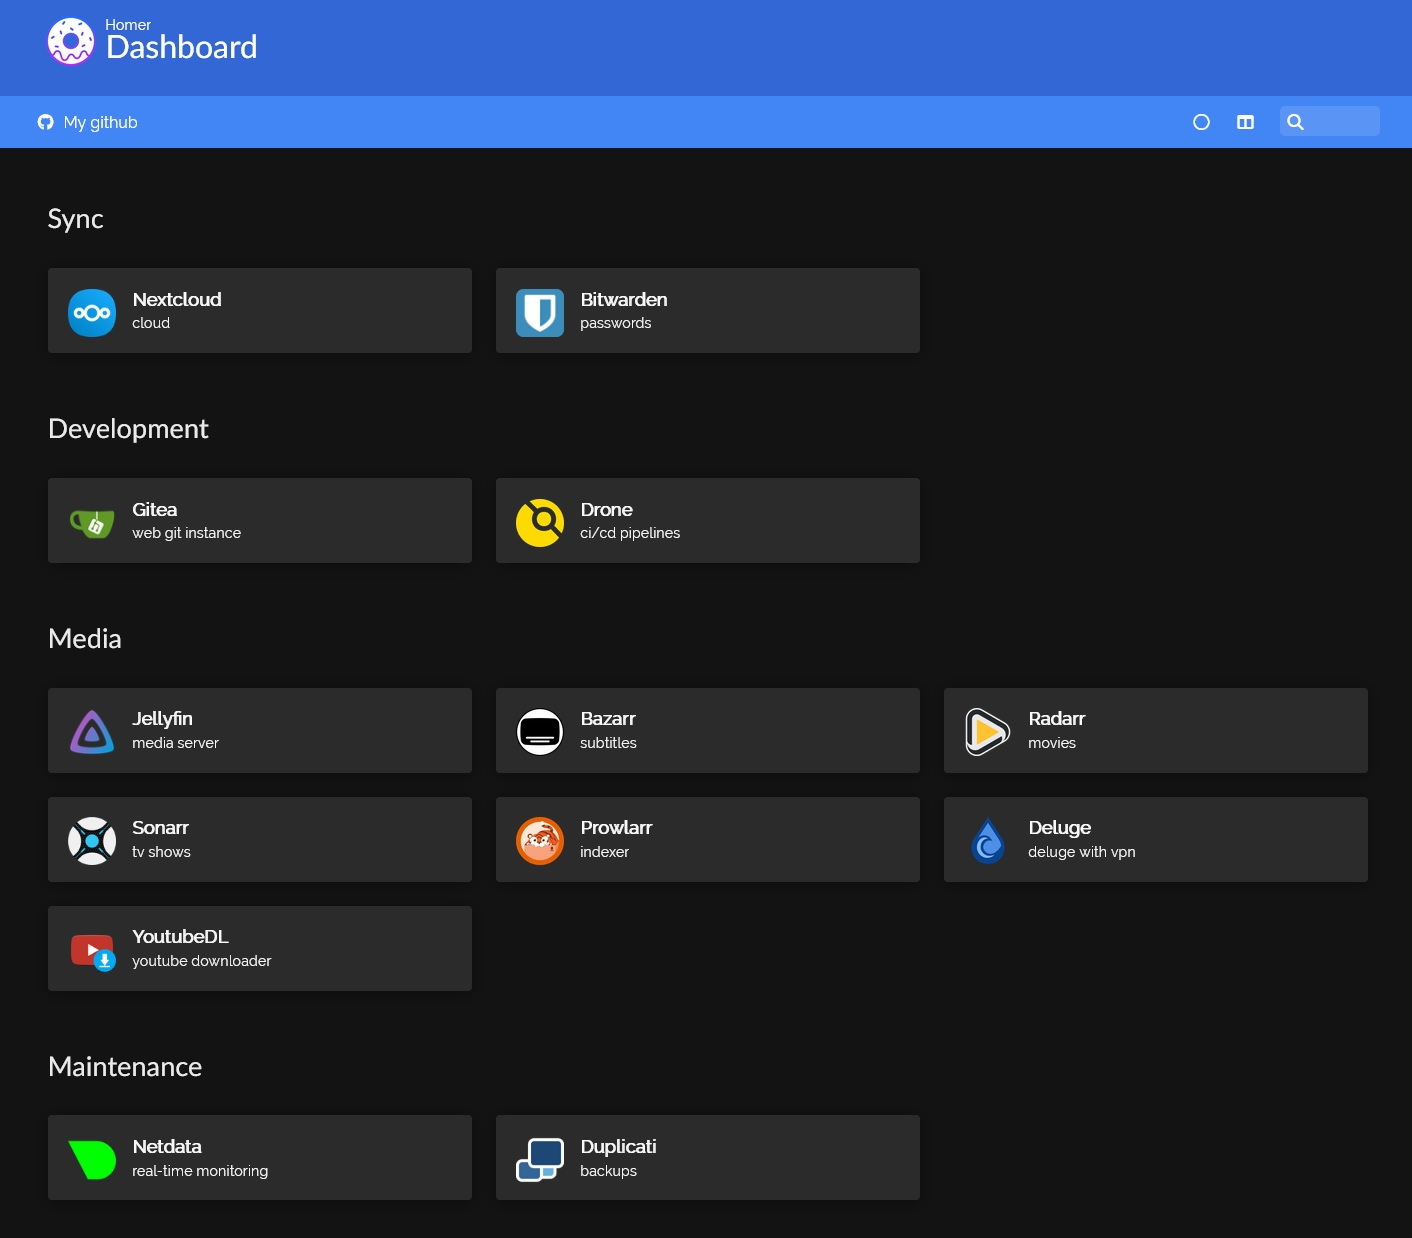
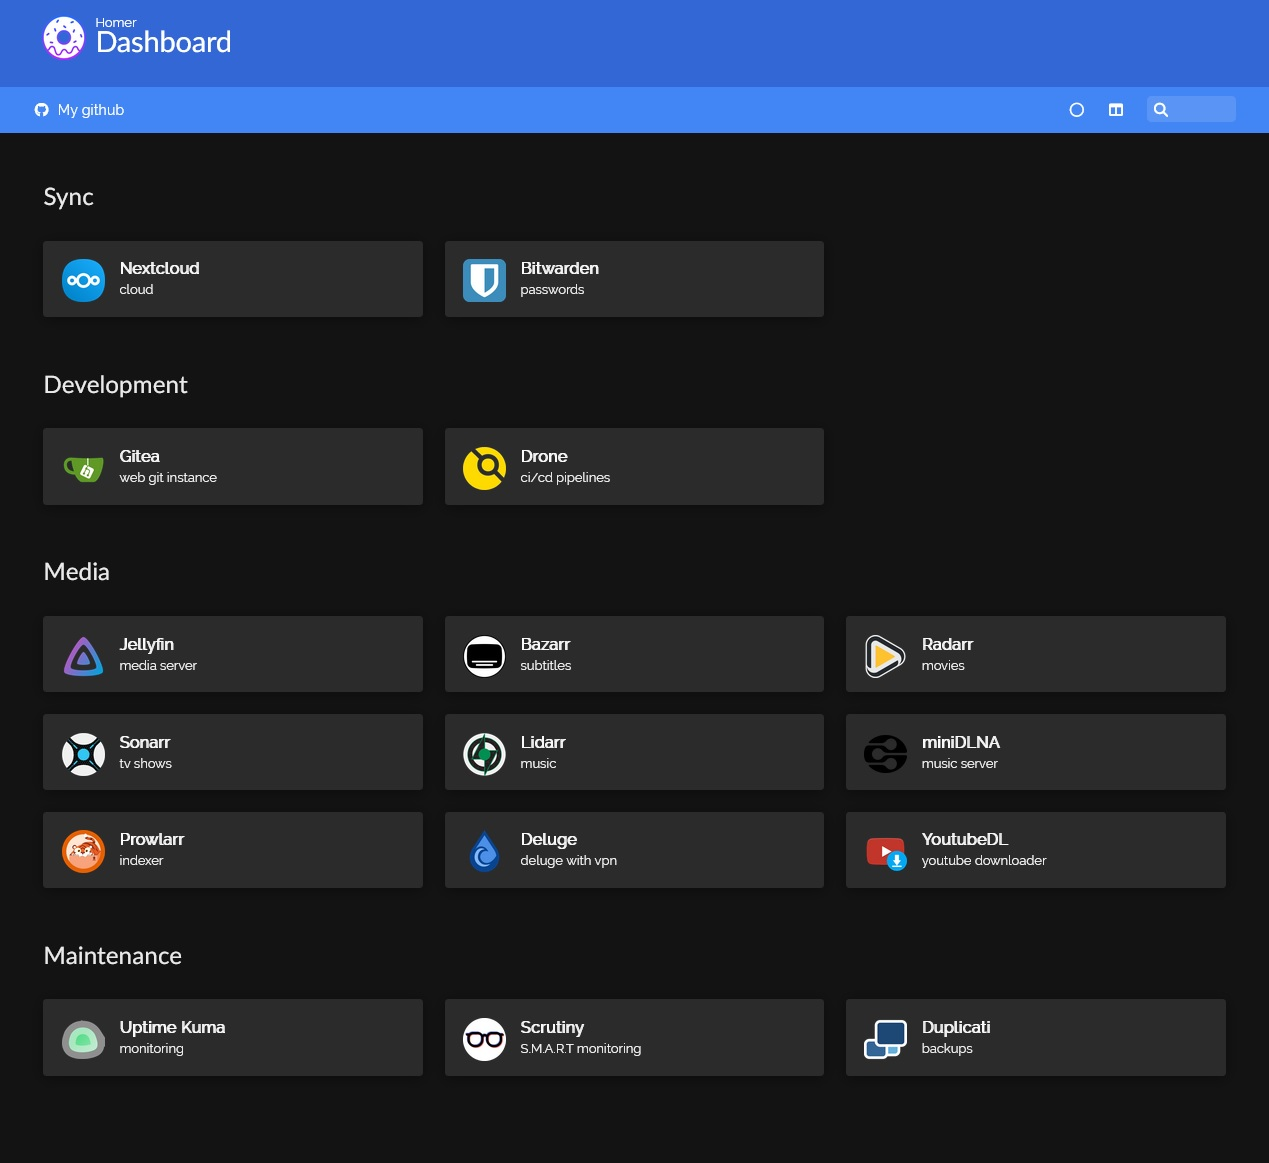
Remove Netdata, add Uptime Kuma and Scrutiny

Changed region(s): [[0.0307, 0.1548, 0.9835, 0.9596], [0.0, 0.0, 1.0, 0.1238], [0.6761, 0.8667, 0.7991, 0.9286]]

diff --git a/README.md b/README.md
@@ -12,7 +12,8 @@ All services are deployed using Docker compose and are run as a non-root user.
 * [watchtower](https://github.com/containrrr/watchtower) - notifications about docker image updates
 * [Duplicati](https://github.com/linuxserver/docker-duplicati) - cool backup
   software
-* [Netdata](https://github.com/netdata/netdata) - real time monitoring solution
+* [Uptime Kuma](https://github.com/louislam/uptime-kuma) - fancy uptime monitoring tool
+* [Scrutiny](https://github.com/AnalogJ/scrutiny) - S.M.A.R.T monitoring
 
 ### Media
 * [Jellyfin](https://github.com/linuxserver/docker-jellyfin) - media server
@@ -22,6 +23,8 @@ All services are deployed using Docker compose and are run as a non-root user.
 * [delugevpn](https://github.com/binhex/arch-delugevpn) - torrent client with VPN and Privoxy
 * [YoutubeDL](https://github.com/Tzahi12345/YoutubeDL-Material) - Youtube media downloader
 * [Prowlarr](https://github.com/Prowlarr/Prowlarr) - indexer
+* [Lidarr](https://github.com/Lidarr/Lidarr) - music library manager
+* [miniDLNA](https://github.com/vladgh/docker_base_images/tree/main/minidlna) - DLNA server
 
 ### Personal cloud
 * [Nextcloud](https://github.com/linuxserver/docker-nextcloud) - filesync/cloud solution
